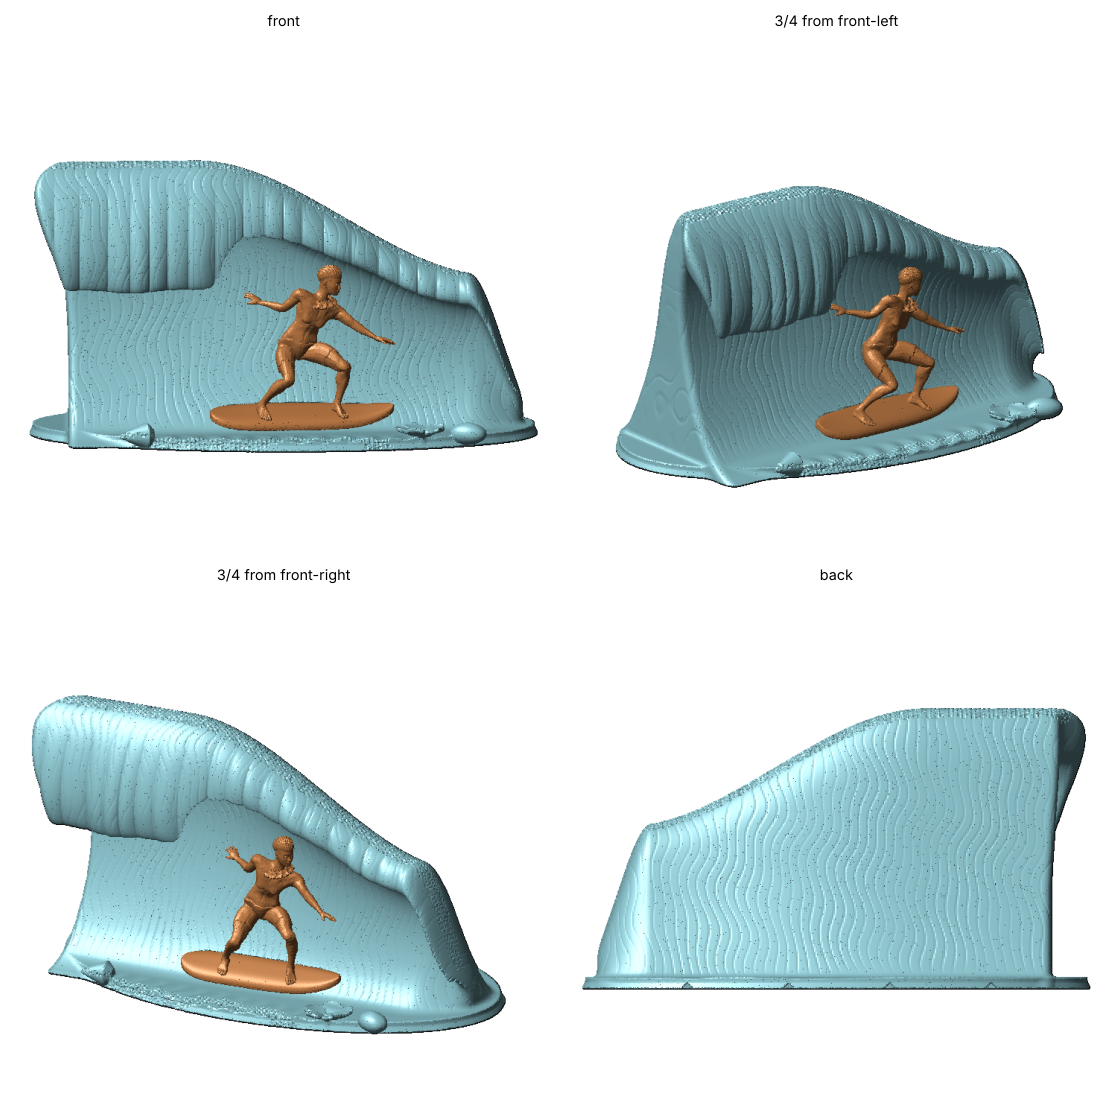
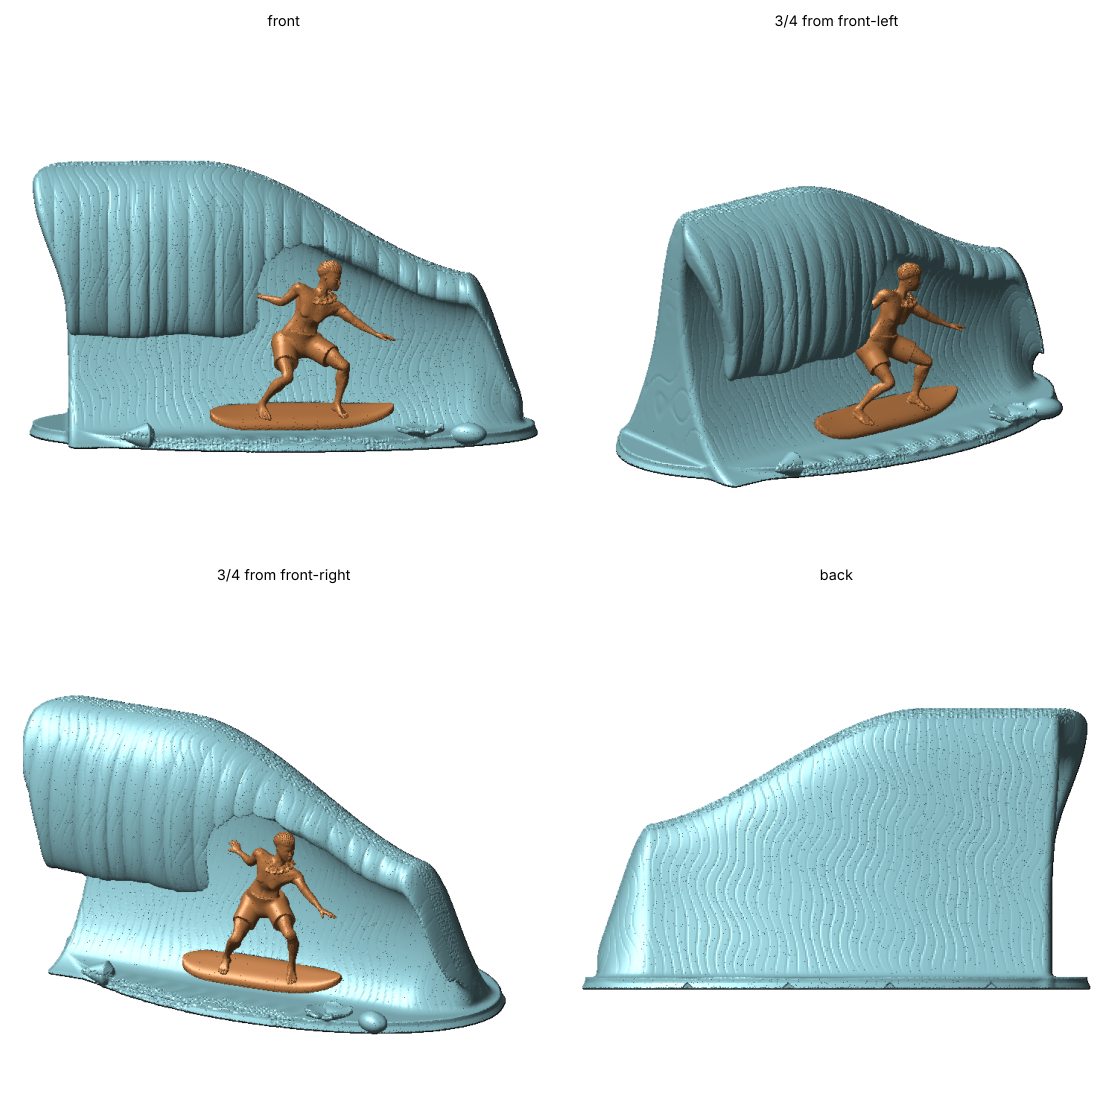
nalu: bigger spiral curl; loose board shorts; smoother torso
The barrel lip now throws further out and down and curls back in, and
the curl carries further down the line. The surfer's shorts are a loose
garment over hips and thighs, sized from the body; Taubin smoothing
takes the skinning creases out of the torso and hips; crouch and twist
eased slightly.

Claude-Session: https://claude.ai/code/session_017ftLatXiQgThsoC1M9thCT

diff --git a/3d-prints/nalu/surfer.py b/3d-prints/nalu/surfer.py
@@ -12,7 +12,7 @@ from human import Figure, ik_dir, limb_len, unit
 
 HEIGHT = 62.0           # standing height, mm
 STANCE = 25.0           # between the ankles, along the board
-HIP_H = 21.0            # hips above the deck in the crouch
+HIP_H = 22.5            # hips above the deck in the crouch
 
 
 def pose(tilt_deg, height=HEIGHT):
@@ -44,8 +44,8 @@ def pose(tilt_deg, height=HEIGHT):
         "head": unit([0.12, -0.12, 1.0]),
     }
     fronts = {
-        "spine05": unit([0.10, -1, 0]), "spine04": unit([0.18, -1, 0]), "spine03": unit([0.26, -1, 0]),
-        "spine02": unit([0.32, -1, 0]), "spine01": unit([0.36, -1, 0]),
+        "spine05": unit([0.06, -1, 0]), "spine04": unit([0.09, -1, 0]), "spine03": unit([0.12, -1, 0]),
+        "spine02": unit([0.15, -1, 0]), "spine01": unit([0.18, -1, 0]),
         "neck01": unit([0.6, -1, 0]), "neck02": unit([0.9, -1, 0]), "neck03": unit([1.2, -1, 0]),
         "head": unit([1.5, -0.8, -0.25]),
     }
@@ -85,6 +85,16 @@ def pose(tilt_deg, height=HEIGHT):
     off = np.array([0, 0, z0])
     V = V - off
     J = {k: (a - off, b - off) for k, (a, b) in J.items()}
+    # smooth out the creases skinning leaves where the spine and hips bend
+    # hard (Taubin smoothing, which keeps volume), on the torso, hips and
+    # thighs only; face, hands and feet keep their detail
+    tors = [i for k, i in F.bi.items() if k.startswith(("spine", "root", "pelvis", "upperleg", "breast", "clavicle"))]
+    wmask = np.clip(np.asarray(F.W[:, tors].sum(1)).ravel(), 0, 1)
+    V = taubin(V, F.faces, wmask, iters=12)
+    # loose board shorts, as a garment over the hips and thighs: a pelvis
+    # block from the waist down over the seat, and a tube on each thigh to a
+    # flat hem a little above mid-thigh, each sized from the body inside it
+    shorts_g = shorts_garment(V, J, s, F)
     # where the clothes and hair go, decided on the standing figure
     R = F.v_rest / s
     knee, hip = 17.0, 32.7
@@ -100,7 +110,7 @@ def pose(tilt_deg, height=HEIGHT):
     # to the nape
     line = 59.4 + 0.5 * np.abs(x) / 4.0 - 2.6 * np.clip((y - 1.5) / 3.5, 0, 1)
     hair = np.clip((z - line) / 2.2, 0, 1) ** 0.7 * ramp(6.2 - np.abs(x), 0.8)   # thickening up from the hairline
-    return dict(V=V, faces=F.faces, J=J, shorts=shorts, hair=hair, F=F)
+    return dict(V=V, faces=F.faces, J=J, shorts=shorts, hair=hair, F=F, garment=shorts_g)
 
 
 if __name__ == "__main__":
@@ -109,3 +119,61 @@ if __name__ == "__main__":
     m = P["F"].mesh(P["V"])
     print(len(m.faces), m.is_watertight, np.round(m.bounds, 1))
     m.export(sys.argv[1])
+
+
+def taubin(V, faces, wmask, iters=12, lam=0.5, mu=-0.53):
+    from scipy.sparse import coo_matrix, diags
+    n = len(V)
+    e = np.vstack([faces[:, [0, 1]], faces[:, [1, 2]], faces[:, [2, 0]]])
+    e = np.vstack([e, e[:, ::-1]])
+    A = coo_matrix((np.ones(len(e)), (e[:, 0], e[:, 1])), shape=(n, n)).tocsr()
+    A.data[:] = 1.0
+    deg = np.asarray(A.sum(1)).ravel()
+    deg[deg == 0] = 1
+    P = diags(1 / deg) @ A
+    W = wmask[:, None]
+    V = V.copy()
+    for _ in range(iters):
+        V = V + lam * W * (P @ V - V)
+        V = V + mu * W * (P @ V - V)
+    return V
+
+
+def shorts_garment(V, J, s, F):
+    """Primitives for loose board shorts, in the deck frame: tapered tubes
+    (a, b, ra, rb) on the thighs and a pelvis block, and the waist plane.
+    Each radius is taken from the body inside it, plus ease."""
+    body = np.zeros(len(V), bool)
+    body[np.unique(F.faces)] = True
+
+    def wsum(prefixes):
+        cols = [i for k, i in F.bi.items() if k.startswith(prefixes)]
+        return np.asarray(F.W[:, cols].sum(1)).ravel()
+
+    def radius(a, b, t0, t1, ease, mask, pct=90):
+        ab = b - a
+        L = np.linalg.norm(ab)
+        u = (V - a) @ ab / L ** 2
+        sel = (u > t0) & (u < t1) & (mask > 0.5) & body
+        dist = np.linalg.norm(V - a - np.outer(u, ab), axis=1)
+        return np.percentile(dist[sel], pct) + ease * s
+    tubes = []
+    for side in ("L", "R"):
+        hip = J[f"upperleg01.{side}"][0]
+        knee = J[f"lowerleg01.{side}"][0]
+        hem = hip + 0.58 * (knee - hip)
+        m = wsum((f"upperleg01.{side}", f"upperleg02.{side}"))
+        r_top = radius(hip, knee, 0.15, 0.3, 0.6, m)
+        r_hem = radius(hip, knee, 0.5, 0.58, 0.75, m)
+        tubes.append((hip - 0.1 * (knee - hip), hem, r_top, r_hem))
+    # pelvis: across the hip joints and up to the waist
+    hl, hr = J["upperleg01.L"][0], J["upperleg01.R"][0]
+    waist = J["spine03"][0]
+    mid = (hl + hr) / 2
+    mp = wsum(("root", "pelvis", "spine05"))
+    r_p = radius(hl, hr, 0.0, 1.0, 0.45, mp, 96)
+    r_w = radius(mid, waist, 0.6, 1.0, 0.35, wsum(("spine04", "spine03")), 70)
+    tubes.append((hl, hr, r_p, r_p))
+    tubes.append((mid, waist, r_p, r_w))
+    up = waist - mid
+    return dict(tubes=tubes, waist=(waist - 0.05 * up, up / np.linalg.norm(up)))

diff --git a/3d-prints/nalu/nalu.py b/3d-prints/nalu/nalu.py
@@ -80,11 +80,12 @@ def ell(x, y, z, rx, ry, rz):
 # a fraction of the local height. Listed round the outline.
 BARREL = np.array([
     (40, -0.05), (38, 0.0), (32, 0.06), (24, 0.20), (15, 0.42), (8, 0.67), (2.5, 0.86),
-    (-4, 0.975), (-11, 1.0), (-18, 0.965), (-23.5, 0.89), (-27.5, 0.78), (-29, 0.67),
-    (-28, 0.585), (-26, 0.545), (-24.6, 0.575), (-25.2, 0.65), (-23.5, 0.74), (-18, 0.815),
-    (-11, 0.82), (-6.5, 0.76), (-4, 0.64), (-4, 0.50), (-6.5, 0.36), (-11.5, 0.22),
+    (-4, 0.975), (-12, 1.0), (-20, 0.975), (-27, 0.92), (-32.5, 0.83), (-35.5, 0.71),
+    (-36, 0.58), (-34.5, 0.47), (-31.5, 0.40), (-28.5, 0.40), (-27, 0.45), (-28.2, 0.52),
+    (-29.2, 0.60), (-28.5, 0.70), (-25, 0.79), (-19, 0.845), (-12, 0.85), (-7, 0.80),
+    (-4, 0.68), (-4, 0.50), (-6.5, 0.36), (-11.5, 0.22),
     (-18, 0.105), (-26, 0.035), (-36, 0.0), (-40, -0.05)])
-BARREL_LIP = slice(10, 17)
+BARREL_LIP = slice(10, 19)
 SHOULDER = np.array([
     (40, -0.05), (38, 0.0), (32, 0.07), (24, 0.24), (15, 0.47), (8, 0.70), (2.5, 0.87),
     (-4, 0.97), (-10, 1.0), (-15, 0.985), (-19, 0.95), (-21.5, 0.90), (-22.2, 0.85),
@@ -101,7 +102,7 @@ def height(x):
 
 def curl(x):
     """1 where the wave throws a barrel, 0 where the lip only feathers."""
-    return 1 - sstep(-34, 30, x)
+    return 1 - sstep(-24, 42, x)
 
 
 def bend(x):
@@ -411,7 +412,34 @@ def figure():
         p = nc + U * 3.9 * np.cos(t) + Vh * 3.4 * np.sin(t) - Z * 2.2 * hang - Vh * 1.2 * hang
         nrm = 0.6 * (U * np.cos(t) + Vh * np.sin(t)) + 0.8 * Z - 0.5 * Vh * hang
         lei.append((p, nrm / np.linalg.norm(nrm), t))
-    return dict(V=V, faces=P["faces"], shorts=P["shorts"], hair=P["hair"], lei=lei, J=J)
+    g = P["garment"]
+    tubes = [(to_world(a_, O, U, Vh, Z), to_world(b_, O, U, Vh, Z), ra, rb) for a_, b_, ra, rb in g["tubes"]]
+    wp, wn = g["waist"]
+    wn = wn[0] * U + wn[1] * Vh + wn[2] * Z
+    return dict(V=V, faces=P["faces"], shorts=P["shorts"], hair=P["hair"], lei=lei, J=J,
+                garment=dict(tubes=tubes, waist=(to_world(wp, O, U, Vh, Z), wn)))
+
+
+def shorts_sdf(x, y, z, g):
+    """Loose board shorts: tapered tubes with flat ends, blended, cut flat at
+    the waist; the thigh tubes' ends are the hems."""
+    d = np.full(x.shape, 1e9)
+    for k, (a, b, ra, rb) in enumerate(g["tubes"]):
+        ab = b - a
+        L = np.linalg.norm(ab)
+        ax = ab / L
+        px, py, pz = x - a[0], y - a[1], z - a[2]
+        t = px * ax[0] + py * ax[1] + pz * ax[2]
+        r = ra + (rb - ra) * np.clip(t / L, 0, 1)
+        radial = np.sqrt(np.maximum(px ** 2 + py ** 2 + pz ** 2 - t ** 2, 0)) - r
+        if k < 2:                                            # thigh: flat hem, open to the hip
+            dd = np.maximum(np.maximum(radial, t - L), -t - 0.5)
+        else:                                                # pelvis: rounded ends
+            tc = np.clip(t, 0, L)
+            dd = np.sqrt(np.maximum(px ** 2 + py ** 2 + pz ** 2 - 2 * t * tc + tc ** 2, 0)) - r
+        d = smin(d, dd, 1.2)
+    wp, wn = g["waist"]
+    return np.maximum(d, (x - wp[0]) * wn[0] + (y - wp[1]) * wn[1] + (z - wp[2]) * wn[2])
 
 
 def lei_sdf(x, y, z, lei):
@@ -453,7 +481,6 @@ def body_sdf(G, X, Y, Z, spacing=0.05):
     side = np.einsum("ij,ij->i", q - pts[j], nrm[j])
     d = np.where(side < 0, -dist, dist)
     # shorts stand 0.35 mm proud of the skin, with a crisp hem and a waistband
-    d = d - 0.35 * sstep(0.42, 0.58, sh[j])
     # hair: 0.6 mm over the scalp, combed back in fine grooves
     hm = hr[j]
     head = G["J"]["head"]
@@ -501,6 +528,7 @@ def build_surfer(voxel, quiet=False, region=None):
         u, v, w = local(X, Y, Z, C, eu, ev, en)
         board = np.minimum(board_sdf(u, v, w), peg_sdf(u, v, w))
         body = body_sdf(G, X, Y, Z)
+        body = smin(body, shorts_sdf(X, Y, Z, G["garment"]), 0.3)
         body = np.minimum(body, lei_sdf(X, Y, Z, G["lei"]))
         vol[sx] = smin(board, body, 0.4)
     say(f"  surfer {time.time() - t0:.0f}s")
